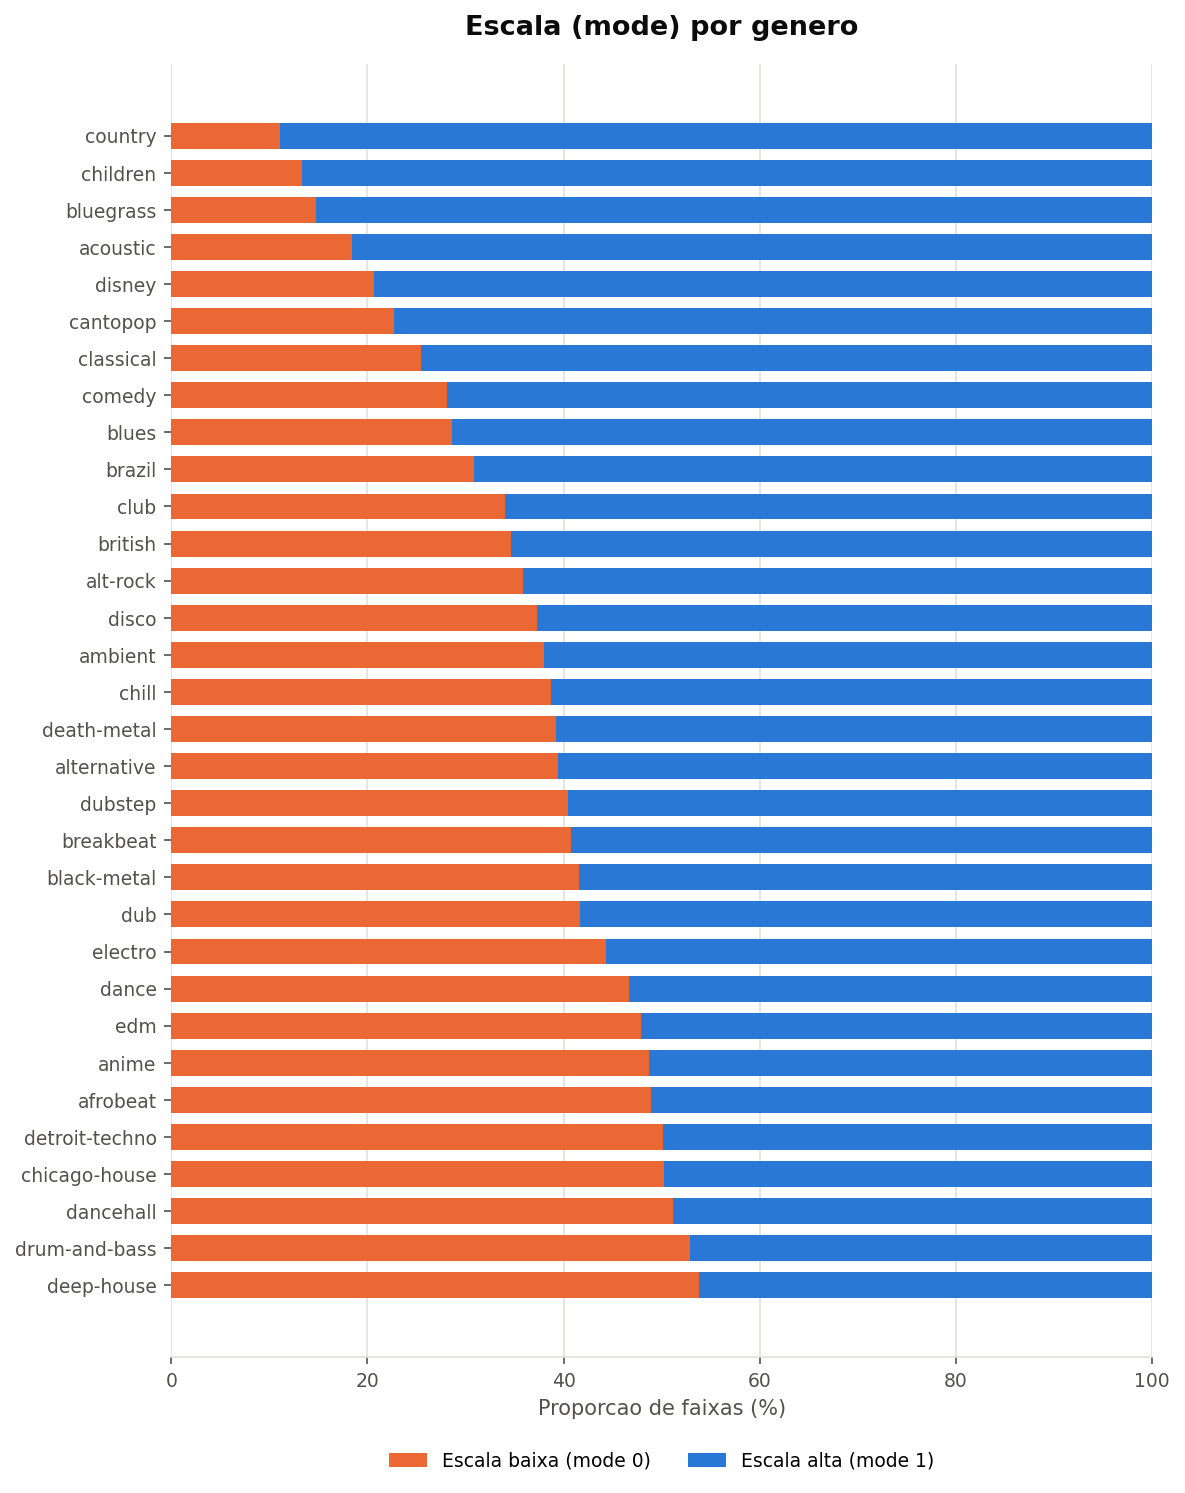
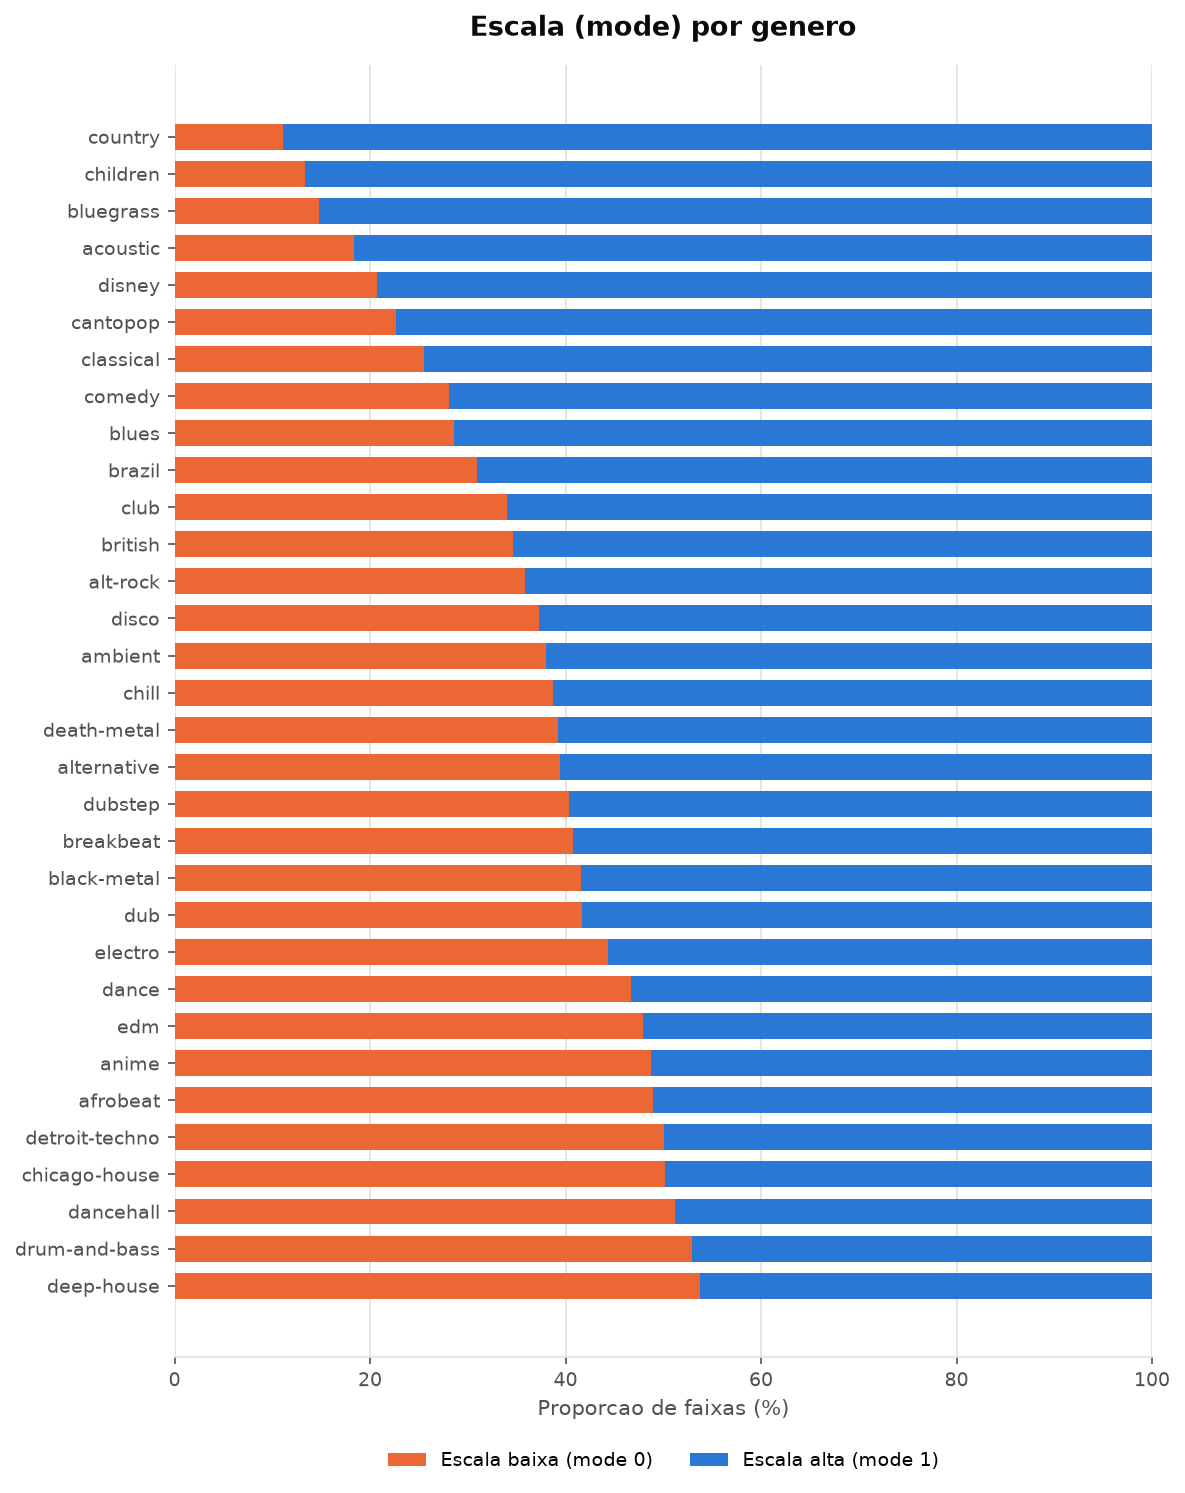
Publish genre-mode and popularity-occurrences analyses to the site
Both analyses already existed as root-level scripts/PNGs
(plot_genre_mode.py, plot_popularity_occurrences.py) but were never
wired into the GitHub Pages site. Adds a reusable analise.html
template for static (non-interactive) analysis pages, two new hub
cards, and the corresponding STATIC_ANALYSES entries in
build_site.py. Also sets matplotlib.use("Agg") in both scripts so
they run headless in CI, and adds their pipeline steps to
pages.yml.

diff --git a/site/static/style.css b/site/static/style.css
@@ -279,6 +279,18 @@ svg text { font-family: "Source Sans 3", sans-serif; }
 
 .export-grid figcaption { margin-top: 8px; font-size: 13px; color: var(--ink-2); }
 
+.analysis-figure { margin: 0; }
+
+.analysis-figure img {
+  width: 100%;
+  height: auto;
+  border-radius: 8px;
+  border: 1px solid var(--border);
+  display: block;
+}
+
+.analysis-figure figcaption { margin-top: 8px; font-size: 13px; color: var(--ink-2); }
+
 table {
   width: 100%;
   border-collapse: collapse;

diff --git a/site/templates/analise.html b/site/templates/analise.html
@@ -1,0 +1,16 @@
+{% extends "base.html" %}
+{% block content %}
+<div class="page">
+  <header>
+    <p class="eyebrow">{{ eyebrow }}</p>
+    <h1>{{ heading }}</h1>
+    <p>{{ description }}</p>
+  </header>
+  <section>
+    <figure class="analysis-figure">
+      <img src="{{ image }}" alt="{{ image_alt }}" loading="lazy">
+      <figcaption>{{ caption }}</figcaption>
+    </figure>
+  </section>
+</div>
+{% endblock %}

diff --git a/site/build_site.py b/site/build_site.py
@@ -23,6 +23,45 @@ ANALYSES = [
         "description": "Popularidade e caracteristicas de audio por genero musical.",
         "href": "genero.html",
     },
+    {
+        "id": "modo",
+        "title": "Escala por Genero",
+        "description": "Proporcao de faixas em escala maior vs. menor, por genero.",
+        "href": "modo.html",
+    },
+    {
+        "id": "popularidade",
+        "title": "Popularidade x Catalogo do Artista",
+        "description": "Popularidade media da faixa conforme o numero de faixas do artista na base.",
+        "href": "popularidade.html",
+    },
+]
+
+STATIC_ANALYSES = [
+    {
+        "href": "modo.html",
+        "eyebrow": "Dataset Spotify · agrupado por track_genre e mode",
+        "heading": "Escala (mode) por genero",
+        "description": (
+            "Proporcao de faixas em escala maior (mode 1) e menor (mode 0) para "
+            "cada genero, calculada por groupby(\"track_genre\")[\"mode\"].mean() "
+            "a partir de dataset.csv."
+        ),
+        "png": ROOT / "genre_mode.png",
+        "image_alt": "Grafico de barras empilhadas: proporcao de escala maior e menor por genero",
+    },
+    {
+        "href": "popularidade.html",
+        "eyebrow": "Dataset Spotify · agrupado por artists",
+        "heading": "Popularidade media x ocorrencias do artista",
+        "description": (
+            "Artistas agrupados por quantidade de faixas na base (1, 2, 3, 4-5, "
+            "..., 21+) e a popularidade media das faixas em cada faixa de "
+            "ocorrencia."
+        ),
+        "png": ROOT / "popularity_occurrences.png",
+        "image_alt": "Grafico de barras: popularidade media por faixa de quantidade de ocorrencias do artista",
+    },
 ]
 
 
@@ -68,8 +107,21 @@ def build() -> None:
     )
     (DIST_DIR / "genero.html").write_text(genero_html, encoding="utf-8")
 
+    for analysis in STATIC_ANALYSES:
+        html = env.get_template("analise.html").render(
+            title=analysis["heading"],
+            eyebrow=analysis["eyebrow"],
+            heading=analysis["heading"],
+            description=analysis["description"],
+            image=analysis["png"].name,
+            image_alt=analysis["image_alt"],
+            caption=analysis["png"].name,
+        )
+        (DIST_DIR / analysis["href"]).write_text(html, encoding="utf-8")
+
     shutil.copytree(STATIC_DIR, DIST_DIR / "static")
-    for png in GENRE_PNGS:
+    all_pngs = GENRE_PNGS + [analysis["png"] for analysis in STATIC_ANALYSES]
+    for png in all_pngs:
         shutil.copy(png, DIST_DIR / png.name)
 
     print(f"Site gerado em {DIST_DIR}")

diff --git a/plot_popularity_occurrences.py b/plot_popularity_occurrences.py
@@ -4,6 +4,10 @@ Agrupa artistas por quantidade de ocorrencias (faixas) na tabela e mostra
 a popularidade media de cada faixa de ocorrencia.
 """
 
+import matplotlib
+
+matplotlib.use("Agg")  # headless: no display in CI, and no window needed locally
+
 import matplotlib.pyplot as plt
 import pandas as pd
 

diff --git a/plot_genre_mode.py b/plot_genre_mode.py
@@ -3,6 +3,10 @@
 mode 1 = escala maior (alta); mode 0 = escala menor (baixa).
 """
 
+import matplotlib
+
+matplotlib.use("Agg")  # headless: no display in CI, and no window needed locally
+
 import matplotlib.pyplot as plt
 import pandas as pd
 
